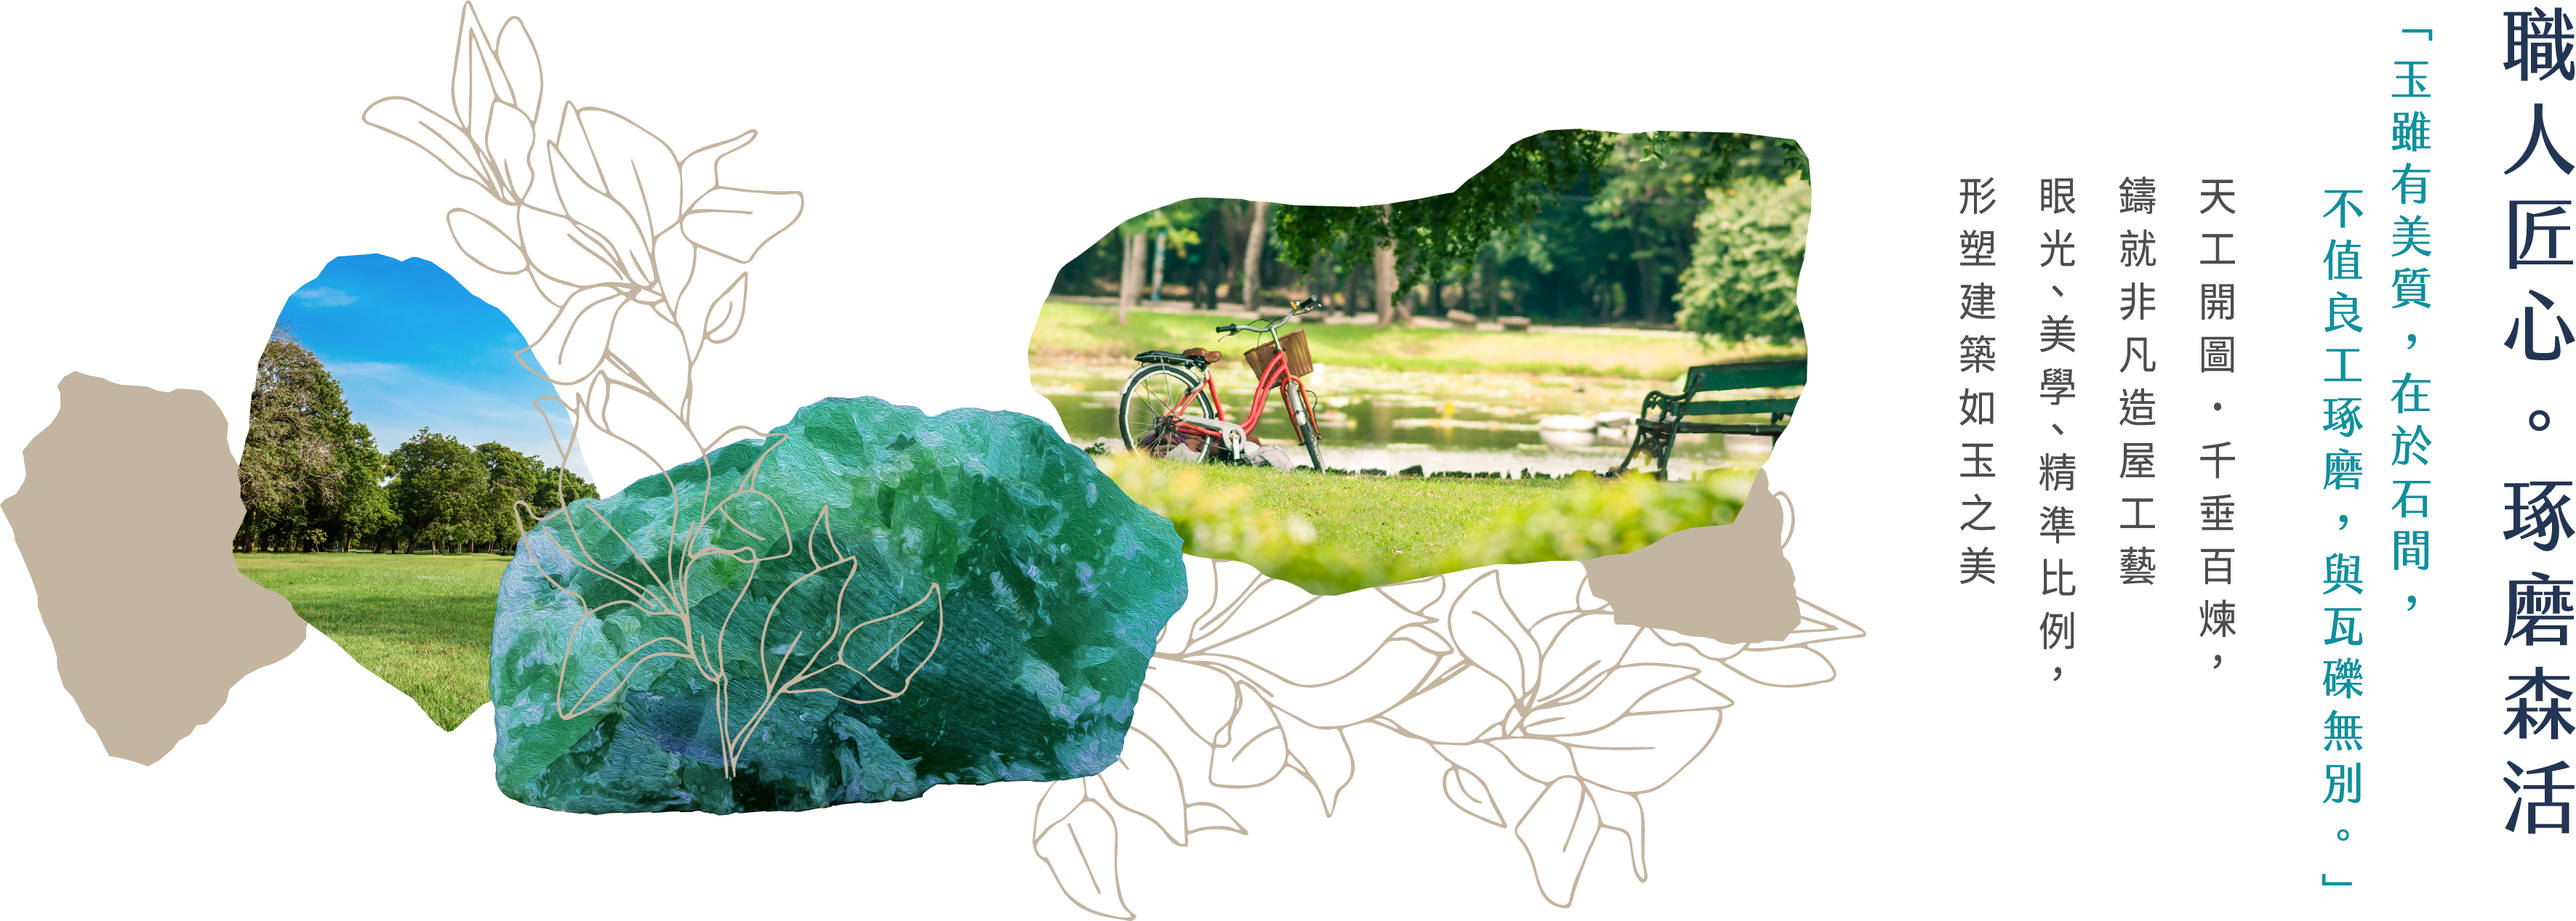
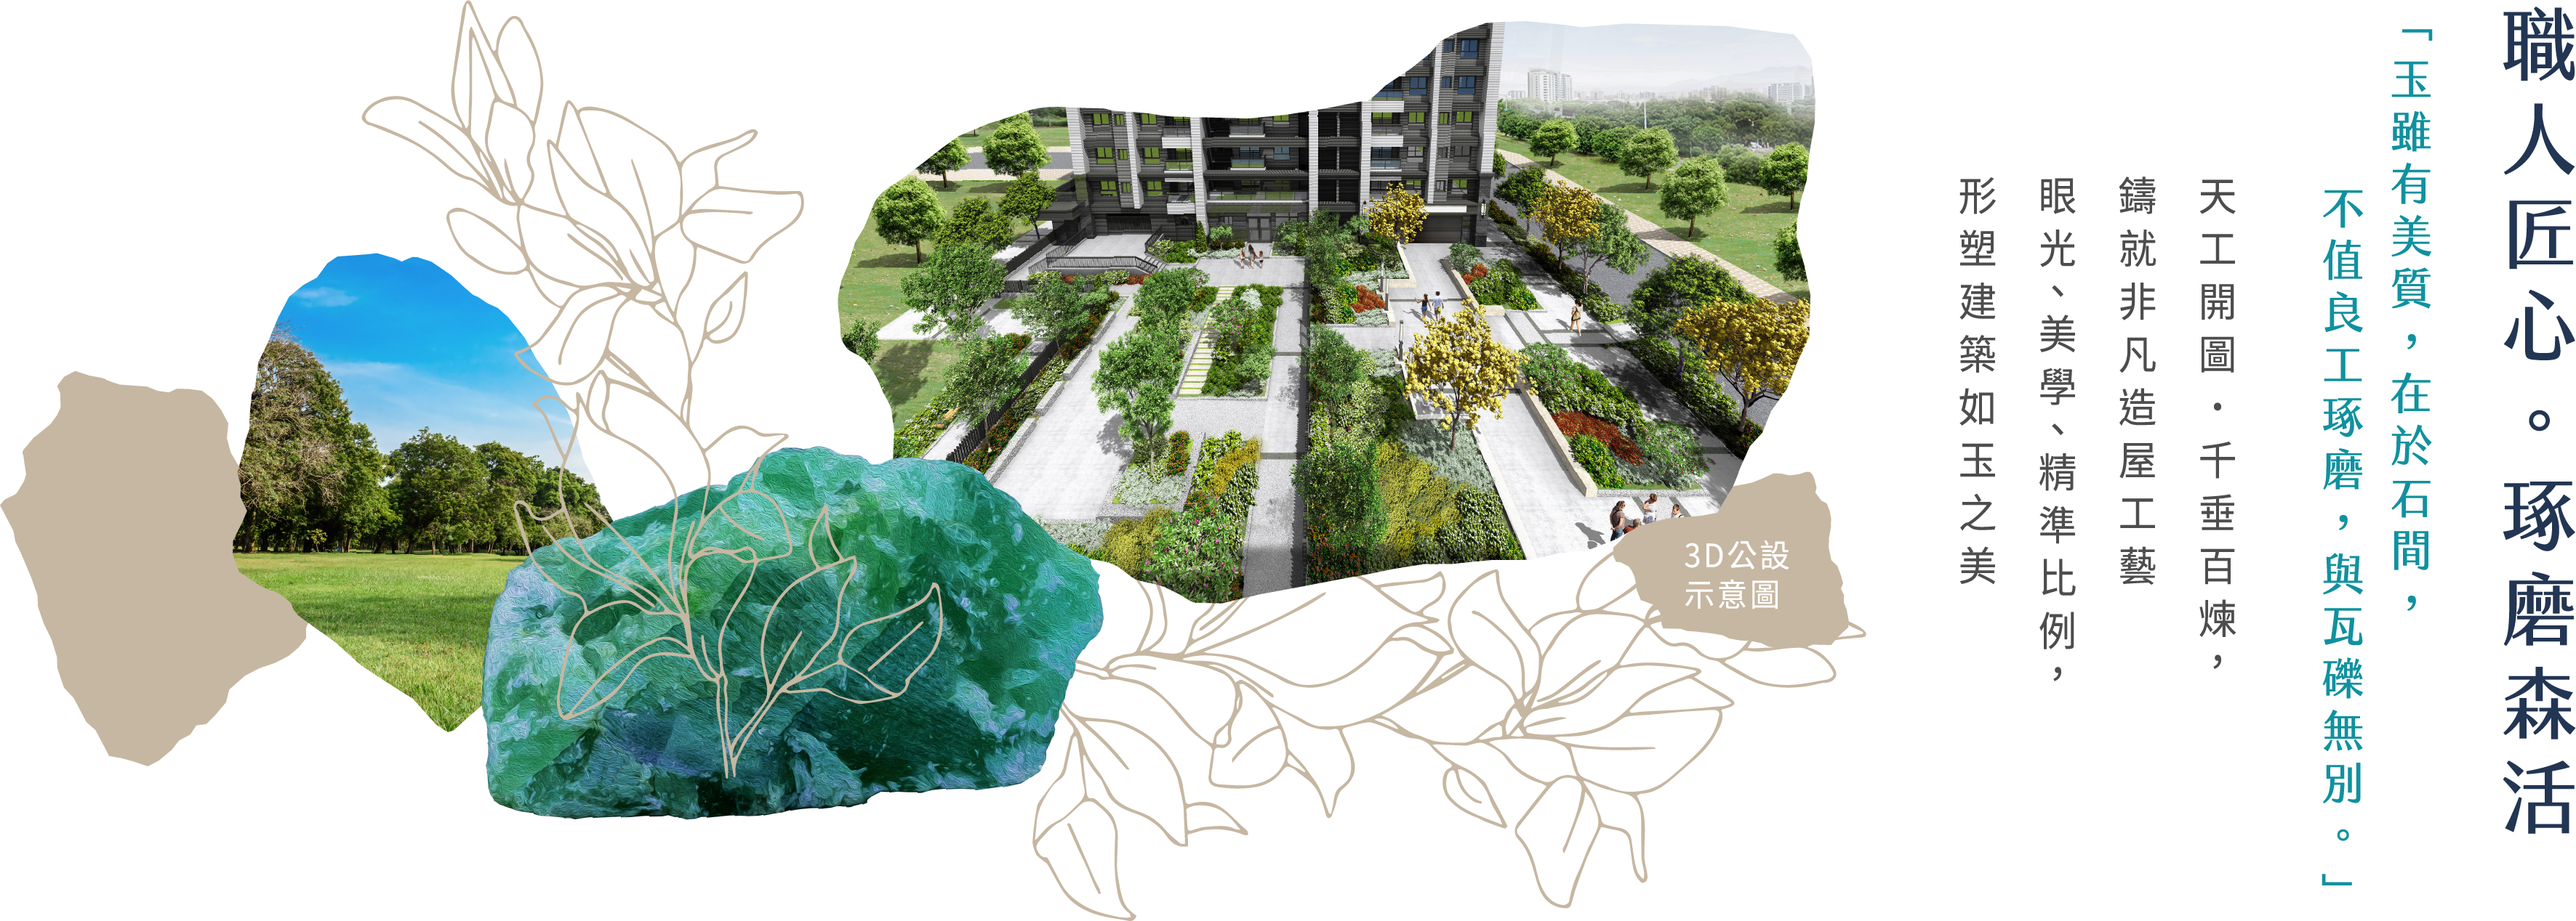
updated

Changed region(s): [[0.1863, 0.0, 0.7141, 0.892]]

diff --git a/src/Page3.js b/src/Page3.js
@@ -7,6 +7,7 @@ import "swiper/css/pagination";
 function Page3() {
   const [swiper, setSwiper] = useState(null);
   const [currentIndex, setCurrentIndex] = useState(0) 
+  const [imgSrc , setImgSrc] = useState('page3_pic2_p01.png')
   const handleClick = (index) =>{
     swiper.slideTo(index)
   }
@@ -15,6 +16,7 @@ function Page3() {
     {image:"p02.png"},
     {image:"p03.png"},
   ]
+
   return (
     <div 
       className='bg-cover bg-center bg-fixed'
@@ -25,12 +27,21 @@ function Page3() {
       </div>
       <div className='flex flex-col justify-center items-center gap-10 pt-20'>
         <img src={process.env.PUBLIC_URL+'/images/open_v2/page3_pic1.png'} alt="" className='max-w-full w-10/12' data-aos="fade-up" data-aos-duration="1000" data-aos-delay="00"/>
-        <div className='flex mt-10 w-4/5 gap-4 md:gap-10 pt-5 md:pt-20 items-end justify-center'>
-          <div className='w-2/5 mb-10 md:mb-20' data-aos="fade-up" data-aos-duration="1000" data-aos-delay="00">
+        <div className='flex mt-10 mb-10 w-4/5 gap-4 md:gap-0 pt-5 md:pt-20 items-end justify-center'>
+          <div className='w-2/5 mb-10 ' data-aos="fade-up" data-aos-duration="1000" data-aos-delay="00">
             <img src={process.env.PUBLIC_URL+'/images/open_v2/page3_pic2_1.png'} alt="" className='max-w-full'/>
           </div>
           <div className='w-3/5' data-aos="fade-up" data-aos-duration="1000" data-aos-delay="300">
-            <img src={process.env.PUBLIC_URL+'/images/open_v2/page3_pic2_2.png'} alt="" className='max-w-full  '/>
+            <img src={process.env.PUBLIC_URL+'/images/open_v2/'+imgSrc} alt="" className='max-w-full  '/>
+            <div className='flex justify-between items-center mt-2'>
+              <div className='flex text-md tracking-wider'>3D外觀示意圖</div>
+              <div className='flex gap-2'>
+                <div className={'w-12 h-4 bg-[#1F3351] rounded-full cursor-pointer transition ' + (imgSrc === 'page3_pic2_p01.png' ? ' opacity-100' : 'opacity-50')} 
+                    onClick={()=>setImgSrc('page3_pic2_p01.png')}></div>
+                <div className={'w-12 h-4 bg-[#1F3351] rounded-full cursor-pointer transition ' + (imgSrc === 'page3_pic2_p02.png' ? ' opacity-100' : 'opacity-50')}
+                    onClick={()=>setImgSrc('page3_pic2_p02.png')}></div>
+              </div>
+            </div>
           </div>
           
 
